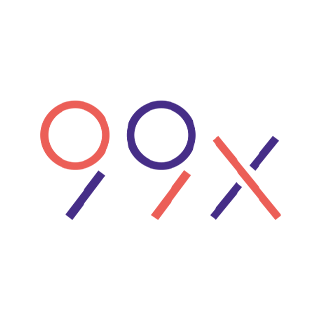
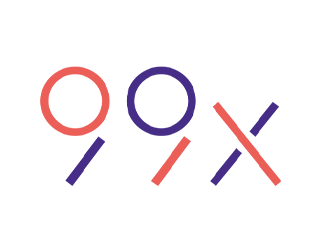
pwerred by sponsor changes

Changed region(s): [[0.375, 0.25, 0.625, 0.75], [0.125, 0.25, 0.3438, 0.75], [0.6562, 0.3889, 0.875, 0.75]]

diff --git a/index.html b/index.html
@@ -753,13 +753,18 @@ Contact: +94 70 325 8006 (Wageesha)
     <section id="sponsors" class="sponsor-section py-5">
         <div class="container text-center">
             <h1><span style="color: var(--neon-blue);">Powered</span> By</h1>
+            <div class="row justify-content-center">
+                <div class="col-lg-4 col-md-5 col-10">
+                    <img src="img/Sponsors/99x-footer-icon.png" alt="">
+                </div>
+            </div>
             <div class="row justify-content-around mt-5 mb-3">
-                <div class="col-lg-3 col-md-5 col-10">
+                <!-- <div class="col-lg-3 col-md-5 col-10">
                     <div class="sponsor-card">
                         <img loading="lazy" class="img-fluid" src="img/Sponsors/99x-footer-icon.png" data-aos="flip-up" data-aos-delay="100" alt="">
                         <h2>Platinum</h2>
                     </div>
-                </div>
+                </div> -->
                 <!-- <div class="col-lg-3 col-md-5 col-10">
                     <div class="sponsor-card">
                         <img loading="lazy" class="img-fluid" src="https://via.placeholder.com/350/E5E4E2?text=Platinum" data-aos="flip-up" data-aos-delay="100" alt="">
